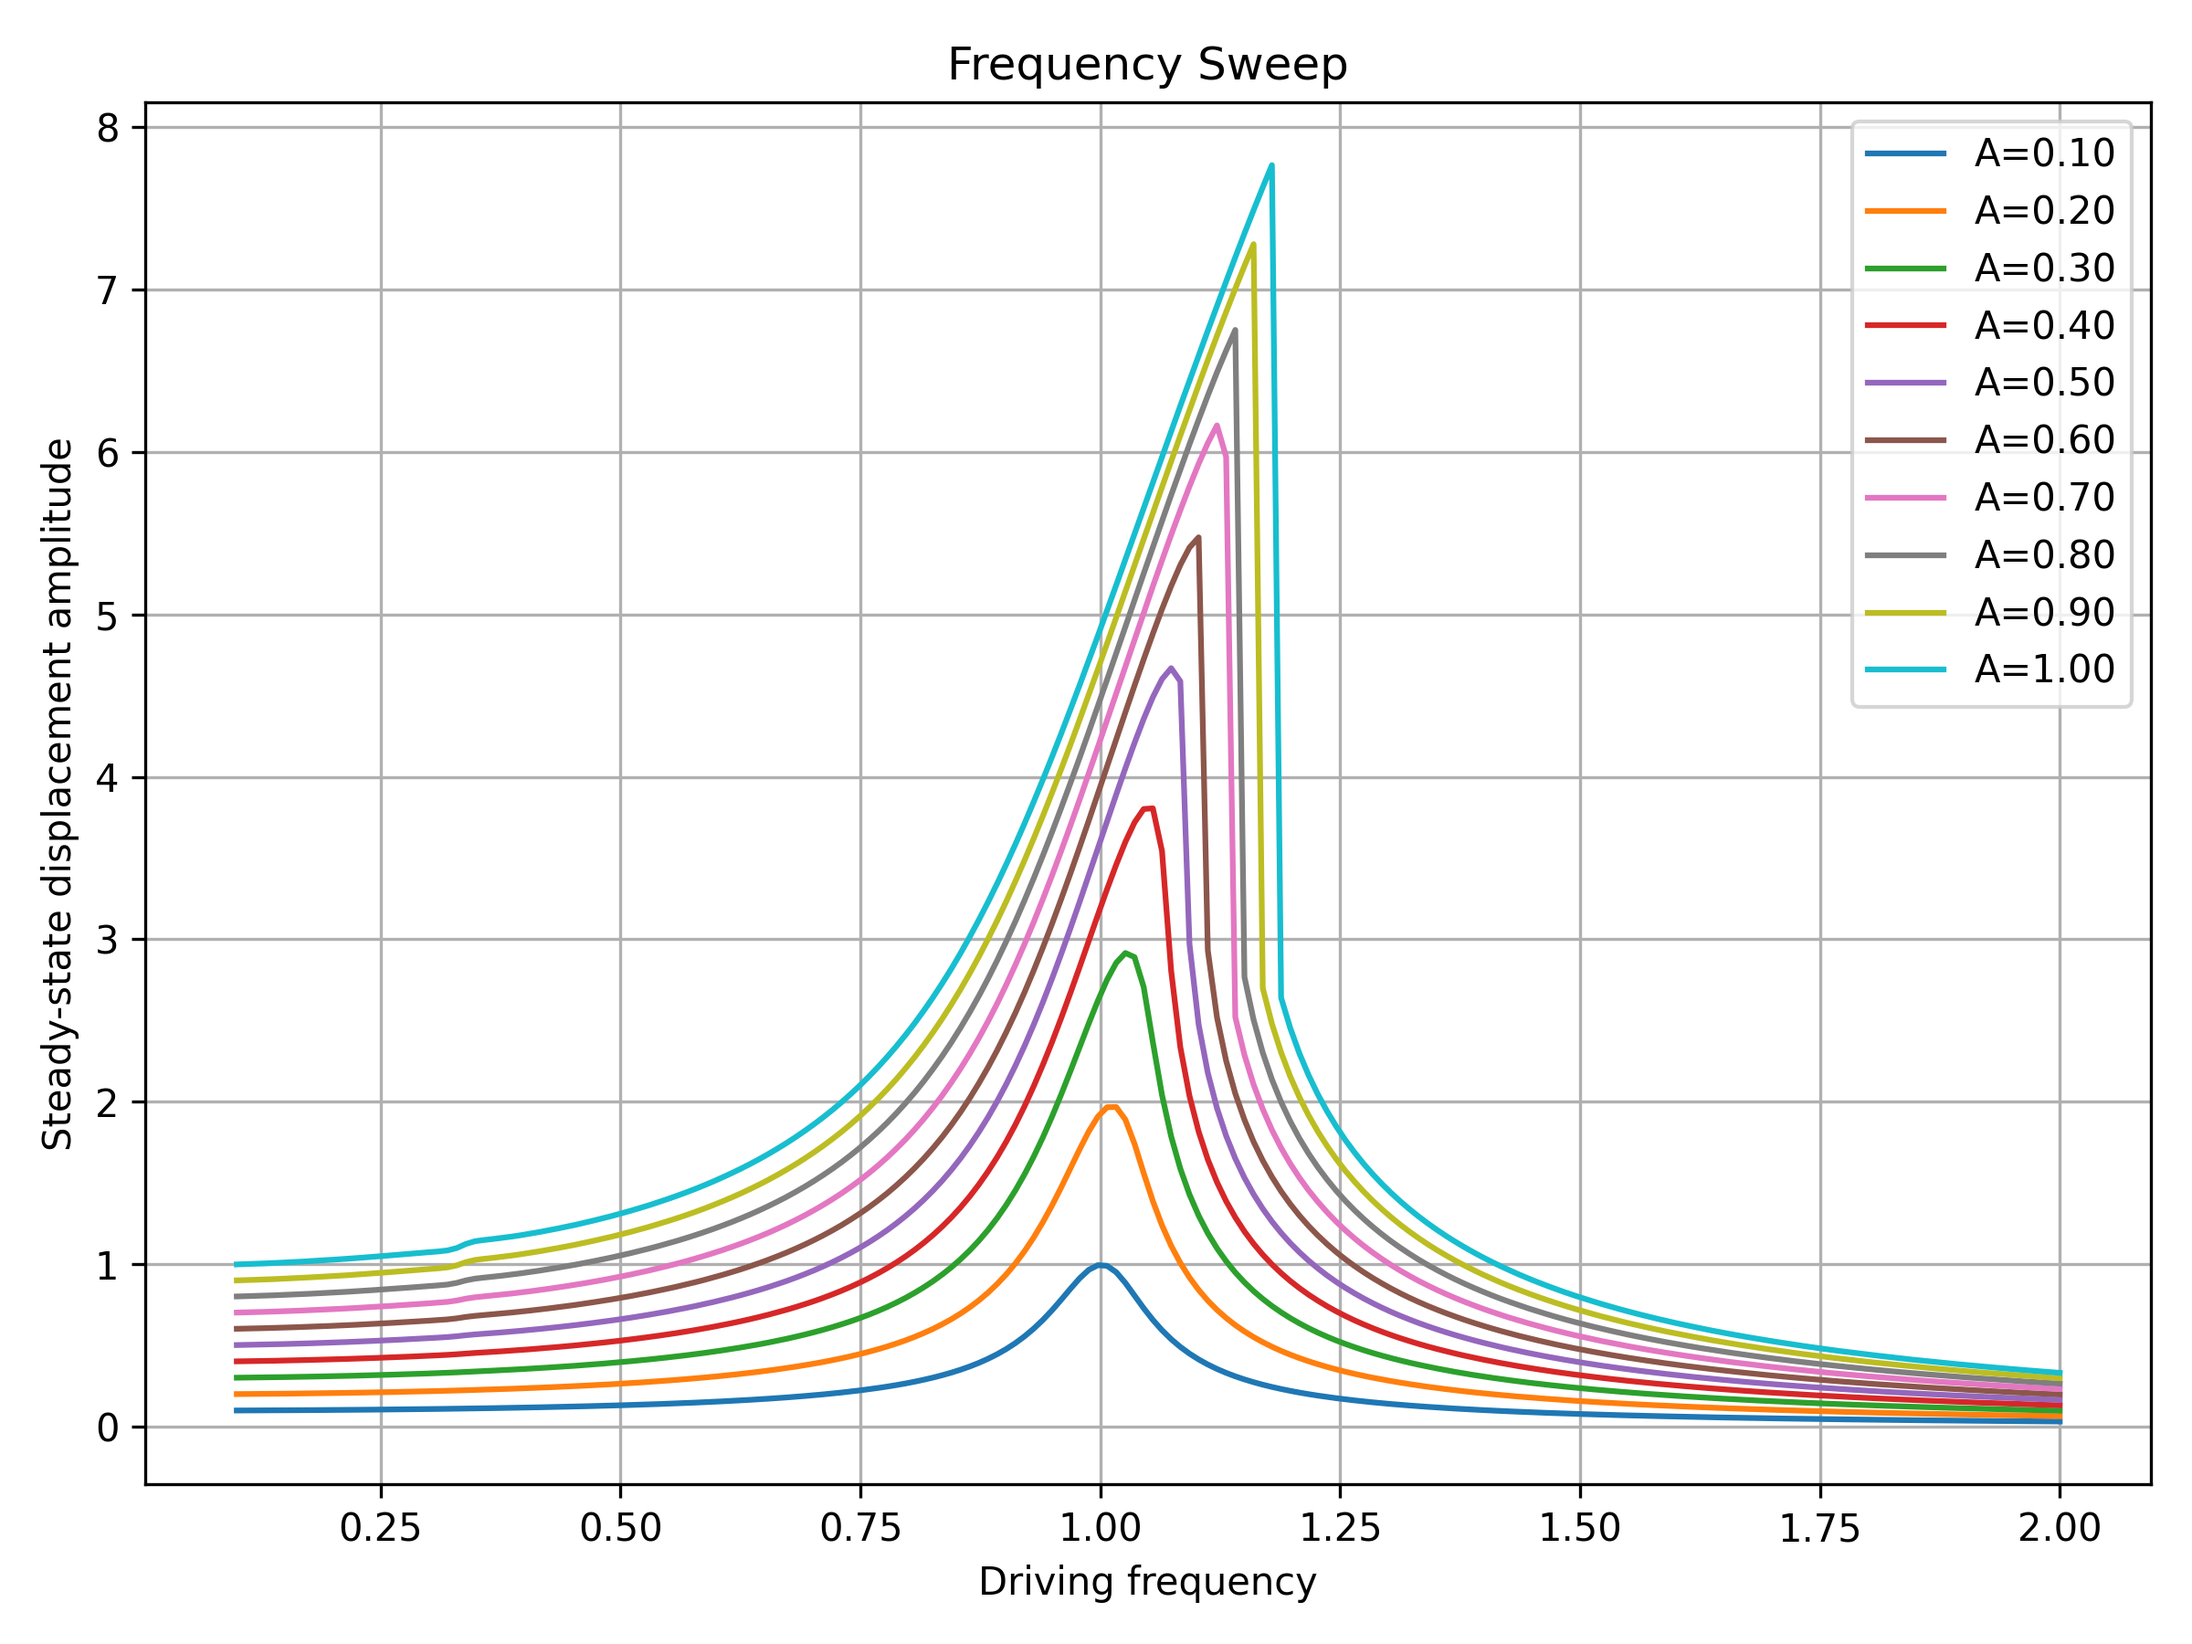
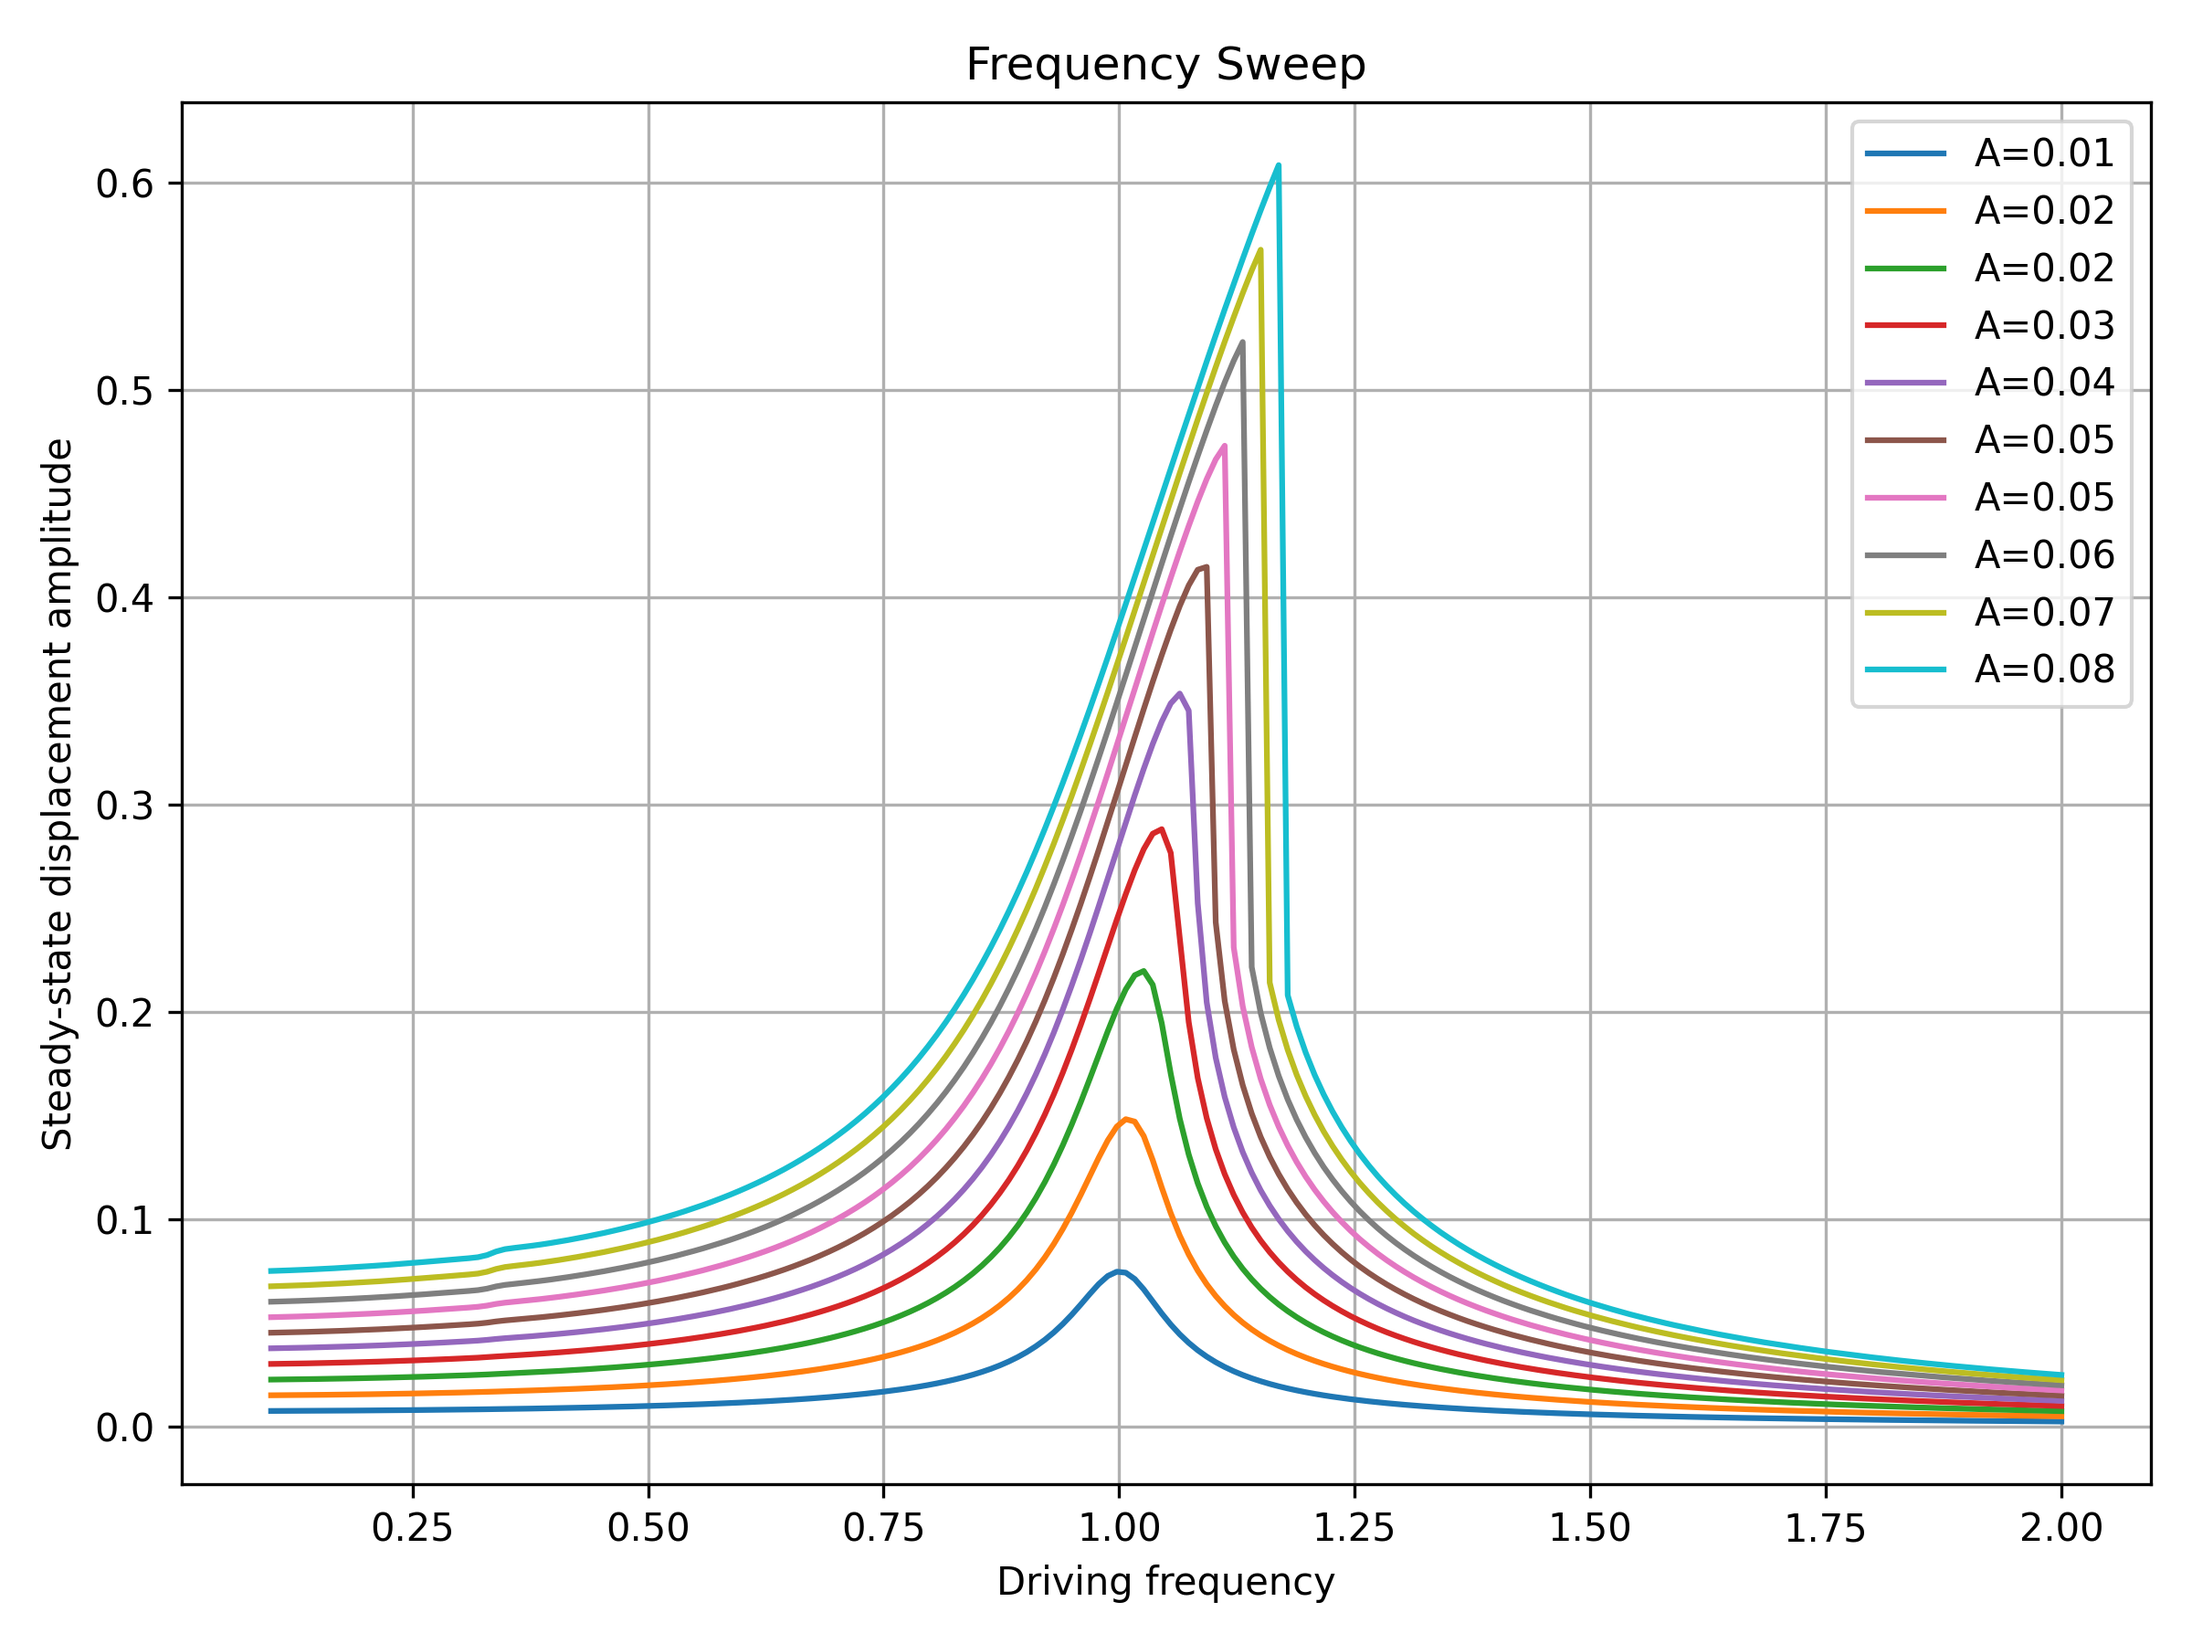
Enhance DuffingOscillator model with new safety factors and settling time calculation; update tests for consistency

diff --git a/src/oscidyn/simulation/examples/models.py b/src/oscidyn/simulation/examples/models.py
@@ -4,51 +4,75 @@ import jax
 import jax.numpy as jnp
 
 from ..models import AbstractModel, oscimodel
-
-@oscimodel
-class DuffingOscillator(AbstractModel):
-                  
-    Q:              jax.Array # Shape: (n_modes,)
-    gamma:          jax.Array # Shape: (n_modes,)                    
+from .. import constants as const
+from dataclasses import field
     
+@oscimodel
+class BaseDuffingOscillator(AbstractModel):
+
+    g1: jax.Array
+    g2: jax.Array
+    g3: jax.Array
+
     def rhs(self, t, state, args):
-        q, v   = jnp.split(state, 2)
-        omega, F = [jnp.asarray(v).reshape(()) for v in args]
+        q, dq_dt   = jnp.split(state, 2)
+        g4, g5 = [jnp.asarray(v).reshape(()) for v in args]
 
-        damping_term = (1 / self.Q) * v # Shape: (n_modes,)
-                
-        linear_stiffness_term = q # Shape: (n_modes,)
+        damping_term = self.g1 * dq_dt
+        linear_stiffness_term = self.g2 * q
+        cubic_stiffness_term = self.g3 * q**3
+        forcing_term = jnp.zeros((self.n_modes,)).at[:1].set(g4 * jnp.cos(g5 * t))
 
-        cubic_stiffness_term = self.gamma * q**3
-        
-        forcing_term = jnp.zeros((self.n_modes,)).at[:1].set(
-            F * jnp.cos(omega * t)
-        )
-
-        a = (
+        d2q_dt2 = (
             - damping_term
             - linear_stiffness_term
             - cubic_stiffness_term
             + forcing_term
         ) 
 
-        return jnp.concatenate([v, a])
+        return jnp.concatenate([dq_dt, d2q_dt2])
     
     @property
     def n_modes(self) -> int:
-        return self.Q.shape[0]
+        return self.g1.shape[0]
+
+    def t_steady_state(self, driving_frequency: float, ss_tol: float) -> float:
+        '''driving_frequency
+        Calculates the settling time for a given Q-factor and driving frequency.
+        Equation from Eq.5.10b Vibrations 2nd edition by Balakumar Balachandran | Edward B. Magrab
+        '''
+        Q = jnp.sqrt(self.g2) / self.g1
+        driving_frequency = jnp.asarray(driving_frequency).reshape(())
+        tau_d = -2 * Q * jnp.log(ss_tol * jnp.sqrt(1 - 1 / (4 * Q**2)) / jnp.max(driving_frequency)) * 1.4
+
+        three_periods = 3 * (2 * jnp.pi / jnp.max(driving_frequency))
+        t_steady_state = (tau_d + three_periods)  * const.SAFETY_FACTOR_T_STEADY_STATE
+
+        jax.debug.print("Settling time calculated: {t_steady_state}", t_steady_state=t_steady_state)
+        
+        return t_steady_state
+
+
+@oscimodel
+class DuffingOscillator(BaseDuffingOscillator):
+                  
+    Q: jax.Array # Shape: (n_modes,)
+    gamma: jax.Array # Shape: (n_modes,)   
+    omega_0: jax.Array # Shape: (n_modes,)      
+    
+    @property
+    def g1(self) -> jax.Array:
+        return 1/self.Q
+    
+    @property
+    def g2(self) -> jax.Array:
+        return self.omega_0**2
+
+    @property
+    def g3(self) -> jax.Array:
+        return self.gamma
     
     @classmethod
     def from_example(cls, n_modes: int) -> DuffingOscillator:
-        if n_modes == 1:
-            omega_ref = 1.0
-            x_ref = 1.0
-            Q = jnp.array([10000.0])
-            gamma = jnp.array([0.010])
-        
-        return cls(
-            omega_ref=omega_ref,
-            x_ref=x_ref,
-            Q=Q,
-            gamma=gamma,
-        )
+        raise NotImplementedError("Initialization from example not implemented yet.")
+    

diff --git a/src/oscidyn/simulation/solver.py b/src/oscidyn/simulation/solver.py
@@ -10,8 +10,7 @@ import os
 from .models import AbstractModel
 from . import constants as const 
 
-SAFETY_FACTOR_T_STEADY_STATE = 1.5
-SAFETY_FACTOR_T_WINDOW = 2.0
+
 
 class AbstractSolver:
     def __init__(self, rtol: float = 1e-4, atol: float = 1e-6, max_steps: int = 4096, progress_bar: bool = True):
@@ -45,9 +44,8 @@ class AbstractSolver:
             throw=True,
             progress_meter=progress_meter,
             saveat=diffrax.SaveAt(ts=ts),
-            stepsize_controller=diffrax.PIDController(rtol=self.rtol, atol=self.atol, pcoeff=0.0, icoeff=1.0, dcoeff=0.0)
-,
-            args=(driving_frequency, driving_amplitude),
+            stepsize_controller=diffrax.PIDController(rtol=self.rtol, atol=self.atol, pcoeff=0.0, icoeff=1.0, dcoeff=0.0),
+            args=(driving_amplitude, driving_frequency),
         )
         return sol
 
@@ -87,25 +85,12 @@ class FixedTimeSteadyStateSolver(AbstractSolver):
         self.n_time_steps = n_time_steps # Can be None, in which case it will be calculated based on the driving frequency 
         
         self.ss_tol = ss_tol
-        
-    def _calculate_settling_time(self, model: AbstractModel, driving_frequency) -> float:
-        '''
-        Calculates the settling time for a given Q-factor and driving frequency.
-        Equation from Eq.5.10b Vibrations 2nd edition by Balakumar Balachandran | Edward B. Magrab
-        '''
-        driving_frequency = jnp.asarray(driving_frequency).reshape(())
-        tau_d = -2 * model.Q * jnp.log(self.ss_tol * jnp.sqrt(1 - 1 / (4 * model.Q**2)) / jnp.max(driving_frequency)) * 1.4
-        
-        three_periods = 3 * (2 * jnp.pi / jnp.max(driving_frequency))
-        t_steady_state = (tau_d + three_periods)  * SAFETY_FACTOR_T_STEADY_STATE
-        
-        return t_steady_state
 
     def _calculate_time_window(self, model: AbstractModel, driving_frequency) -> jax.Array:
         '''
         Calculate the minimum time window/ time period to capture all harmonics.
         '''
-        time_window = const.MAXIMUM_ORDER_SUBHARMONICS * (2 * jnp.pi / jnp.max(driving_frequency)) * SAFETY_FACTOR_T_WINDOW 
+        time_window = const.MAXIMUM_ORDER_SUBHARMONICS * (2 * jnp.pi / jnp.max(driving_frequency)) * const.SAFETY_FACTOR_T_WINDOW 
          
         return time_window
 
@@ -117,7 +102,7 @@ class FixedTimeSteadyStateSolver(AbstractSolver):
               time_shift: float = 0.0,
               ):
 
-        settling_time = self._calculate_settling_time(model, driving_frequency).reshape(())
+        settling_time = model.t_steady_state(driving_frequency, self.ss_tol) # Shape: ()
         steady_state_window = self._calculate_time_window(model, driving_frequency) 
         t0 = 0.0 + time_shift # Time to start numerical integration
         t1 = settling_time + steady_state_window + time_shift # Time to end numerical integration

diff --git a/tests/frequency_sweep/test_frequency_sweep.py b/tests/frequency_sweep/test_frequency_sweep.py
@@ -2,11 +2,14 @@ from jax import numpy as jnp
 import time
 import oscidyn
 
-Q, gamma = 10.0, 0.01
-MODEL = oscidyn.DuffingOscillator(Q=jnp.array([Q]), gamma=jnp.array([gamma]))
+Q, omega_0, gamma = 10.0, 1.0, 0.01
+#MODEL = oscidyn.DuffingOscillator(Q=jnp.array([Q]), gamma=jnp.array([gamma]), omega_0=jnp.array([omega_0]))
+#MODEL = oscidyn.DuffingOscillator(Q=jnp.array([Q]), gamma=jnp.array([gamma]))
+MODEL = oscidyn.BaseDuffingOscillator(g1=jnp.array([omega_0/(Q)]), g2=jnp.array([omega_0]), g3=jnp.array([1.5]))
 SWEEP_DIRECTION = oscidyn.SweepDirection.FORWARD
 DRIVING_FREQUENCY = jnp.linspace(0.1, 2.0, 200)
-DRIVING_AMPLITUDE = jnp.linspace(1*1/Q, 10*1/Q, 10)
+#DRIVING_AMPLITUDE = jnp.linspace(1*1/Q, 10*1/Q, 10)
+DRIVING_AMPLITUDE = jnp.linspace(7.5e-3, 7.5e-2, 10)
 SOLVER = oscidyn.FixedTimeSteadyStateSolver(max_steps=4_096*200, rtol=1e-4, atol=1e-7, progress_bar=True)
 PRECISION = oscidyn.Precision.SINGLE
 

diff --git a/src/oscidyn/simulation/simulations/frequency_sweep.py b/src/oscidyn/simulation/simulations/frequency_sweep.py
@@ -314,6 +314,7 @@ def frequency_sweep(
         
         n_time_steps = jnp.ceil(one_period * sampling_frequency).astype(int) # Number of time steps to cover one period with the given sampling frequency
         solver.n_time_steps = n_time_steps
+        
 
     # We start by exploring the branches of the system
     t_max_disp, y_max_disp, t_max_vel, y_max_vel = _explore_branches(

diff --git a/src/oscidyn/simulation/models.py b/src/oscidyn/simulation/models.py
@@ -3,7 +3,7 @@ from __future__ import annotations
 from dataclasses import dataclass, field
 import jax
 
-oscimodel = lambda cls: dataclass(eq=False)(cls)
+oscimodel = lambda cls: dataclass(eq=False, kw_only=True)(cls)
 
 @oscimodel
 class AbstractModel:

diff --git a/src/oscidyn/simulation/constants.py b/src/oscidyn/simulation/constants.py
@@ -27,4 +27,9 @@ MIN_WINDOWS = 3  # Minimum number of windows to consider for convergence
 
 PLOT_GRID = True
 
+SAFETY_FACTOR_T_STEADY_STATE = 1.5
+SAFETY_FACTOR_T_WINDOW = 2.0
+
+STEADY_STATE_TOLERANCE = 1e-3
+
 XLA_PYTHON_CLIENT_MEM_FRACTION = 0.85
